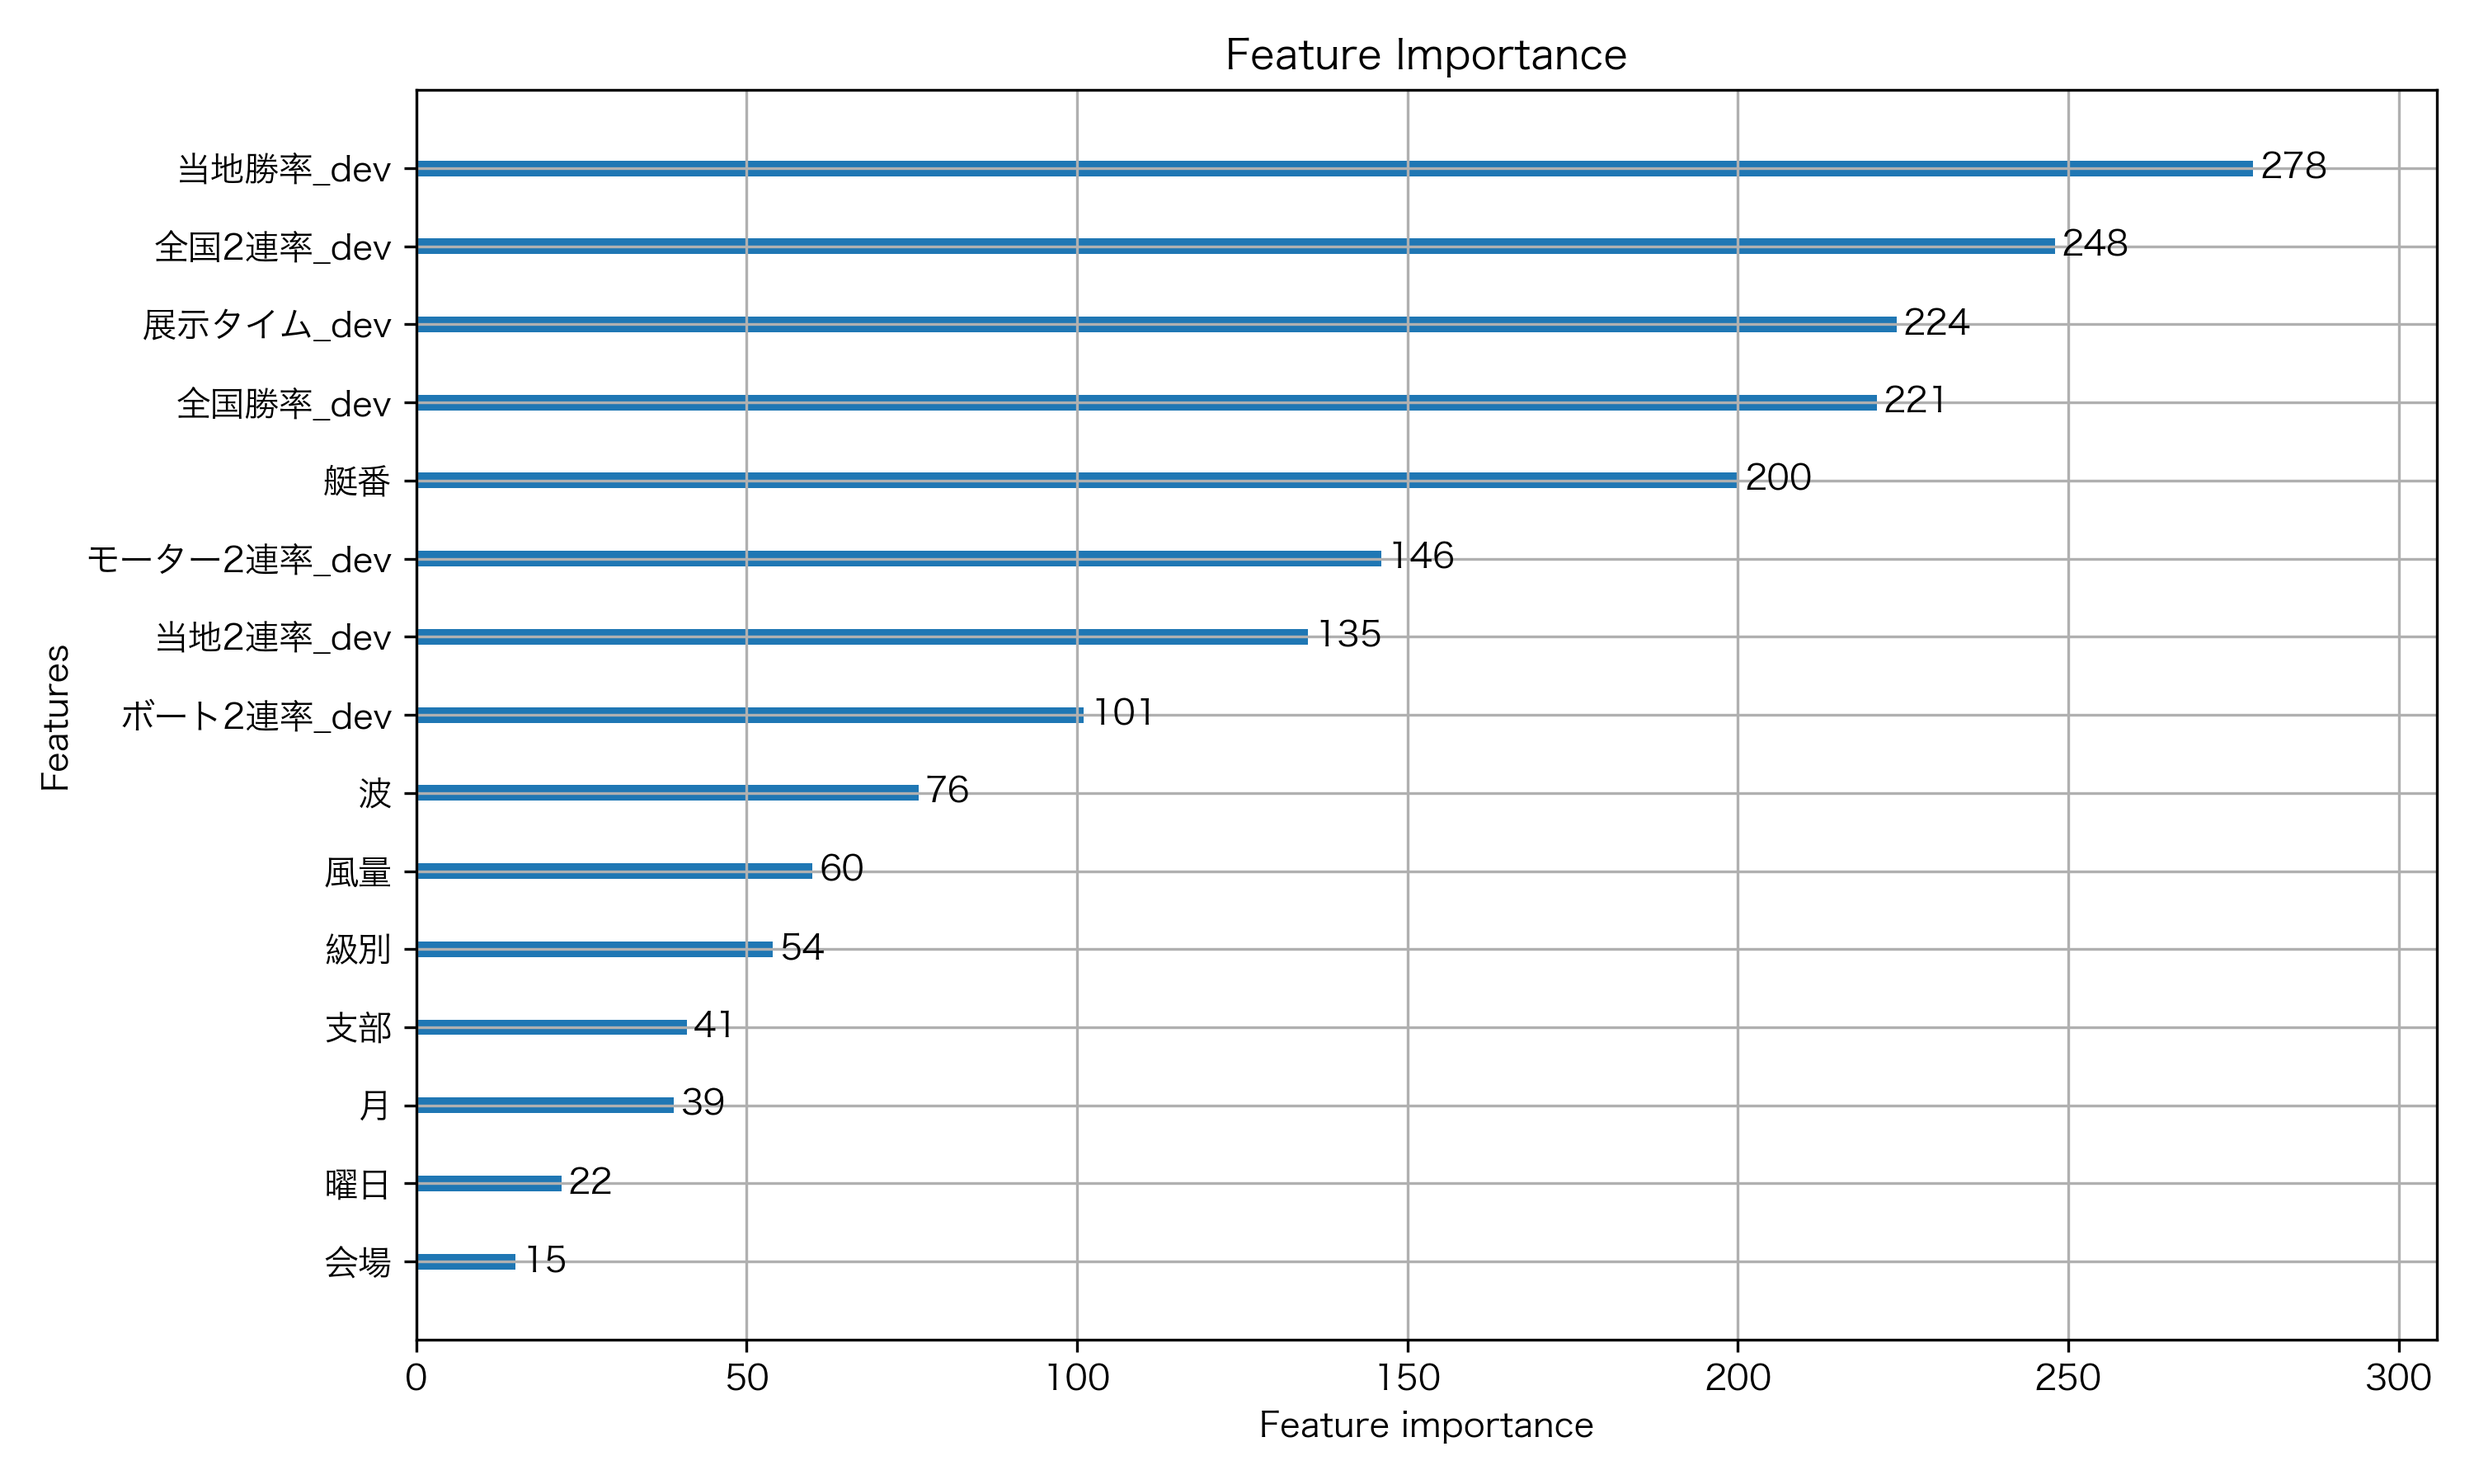
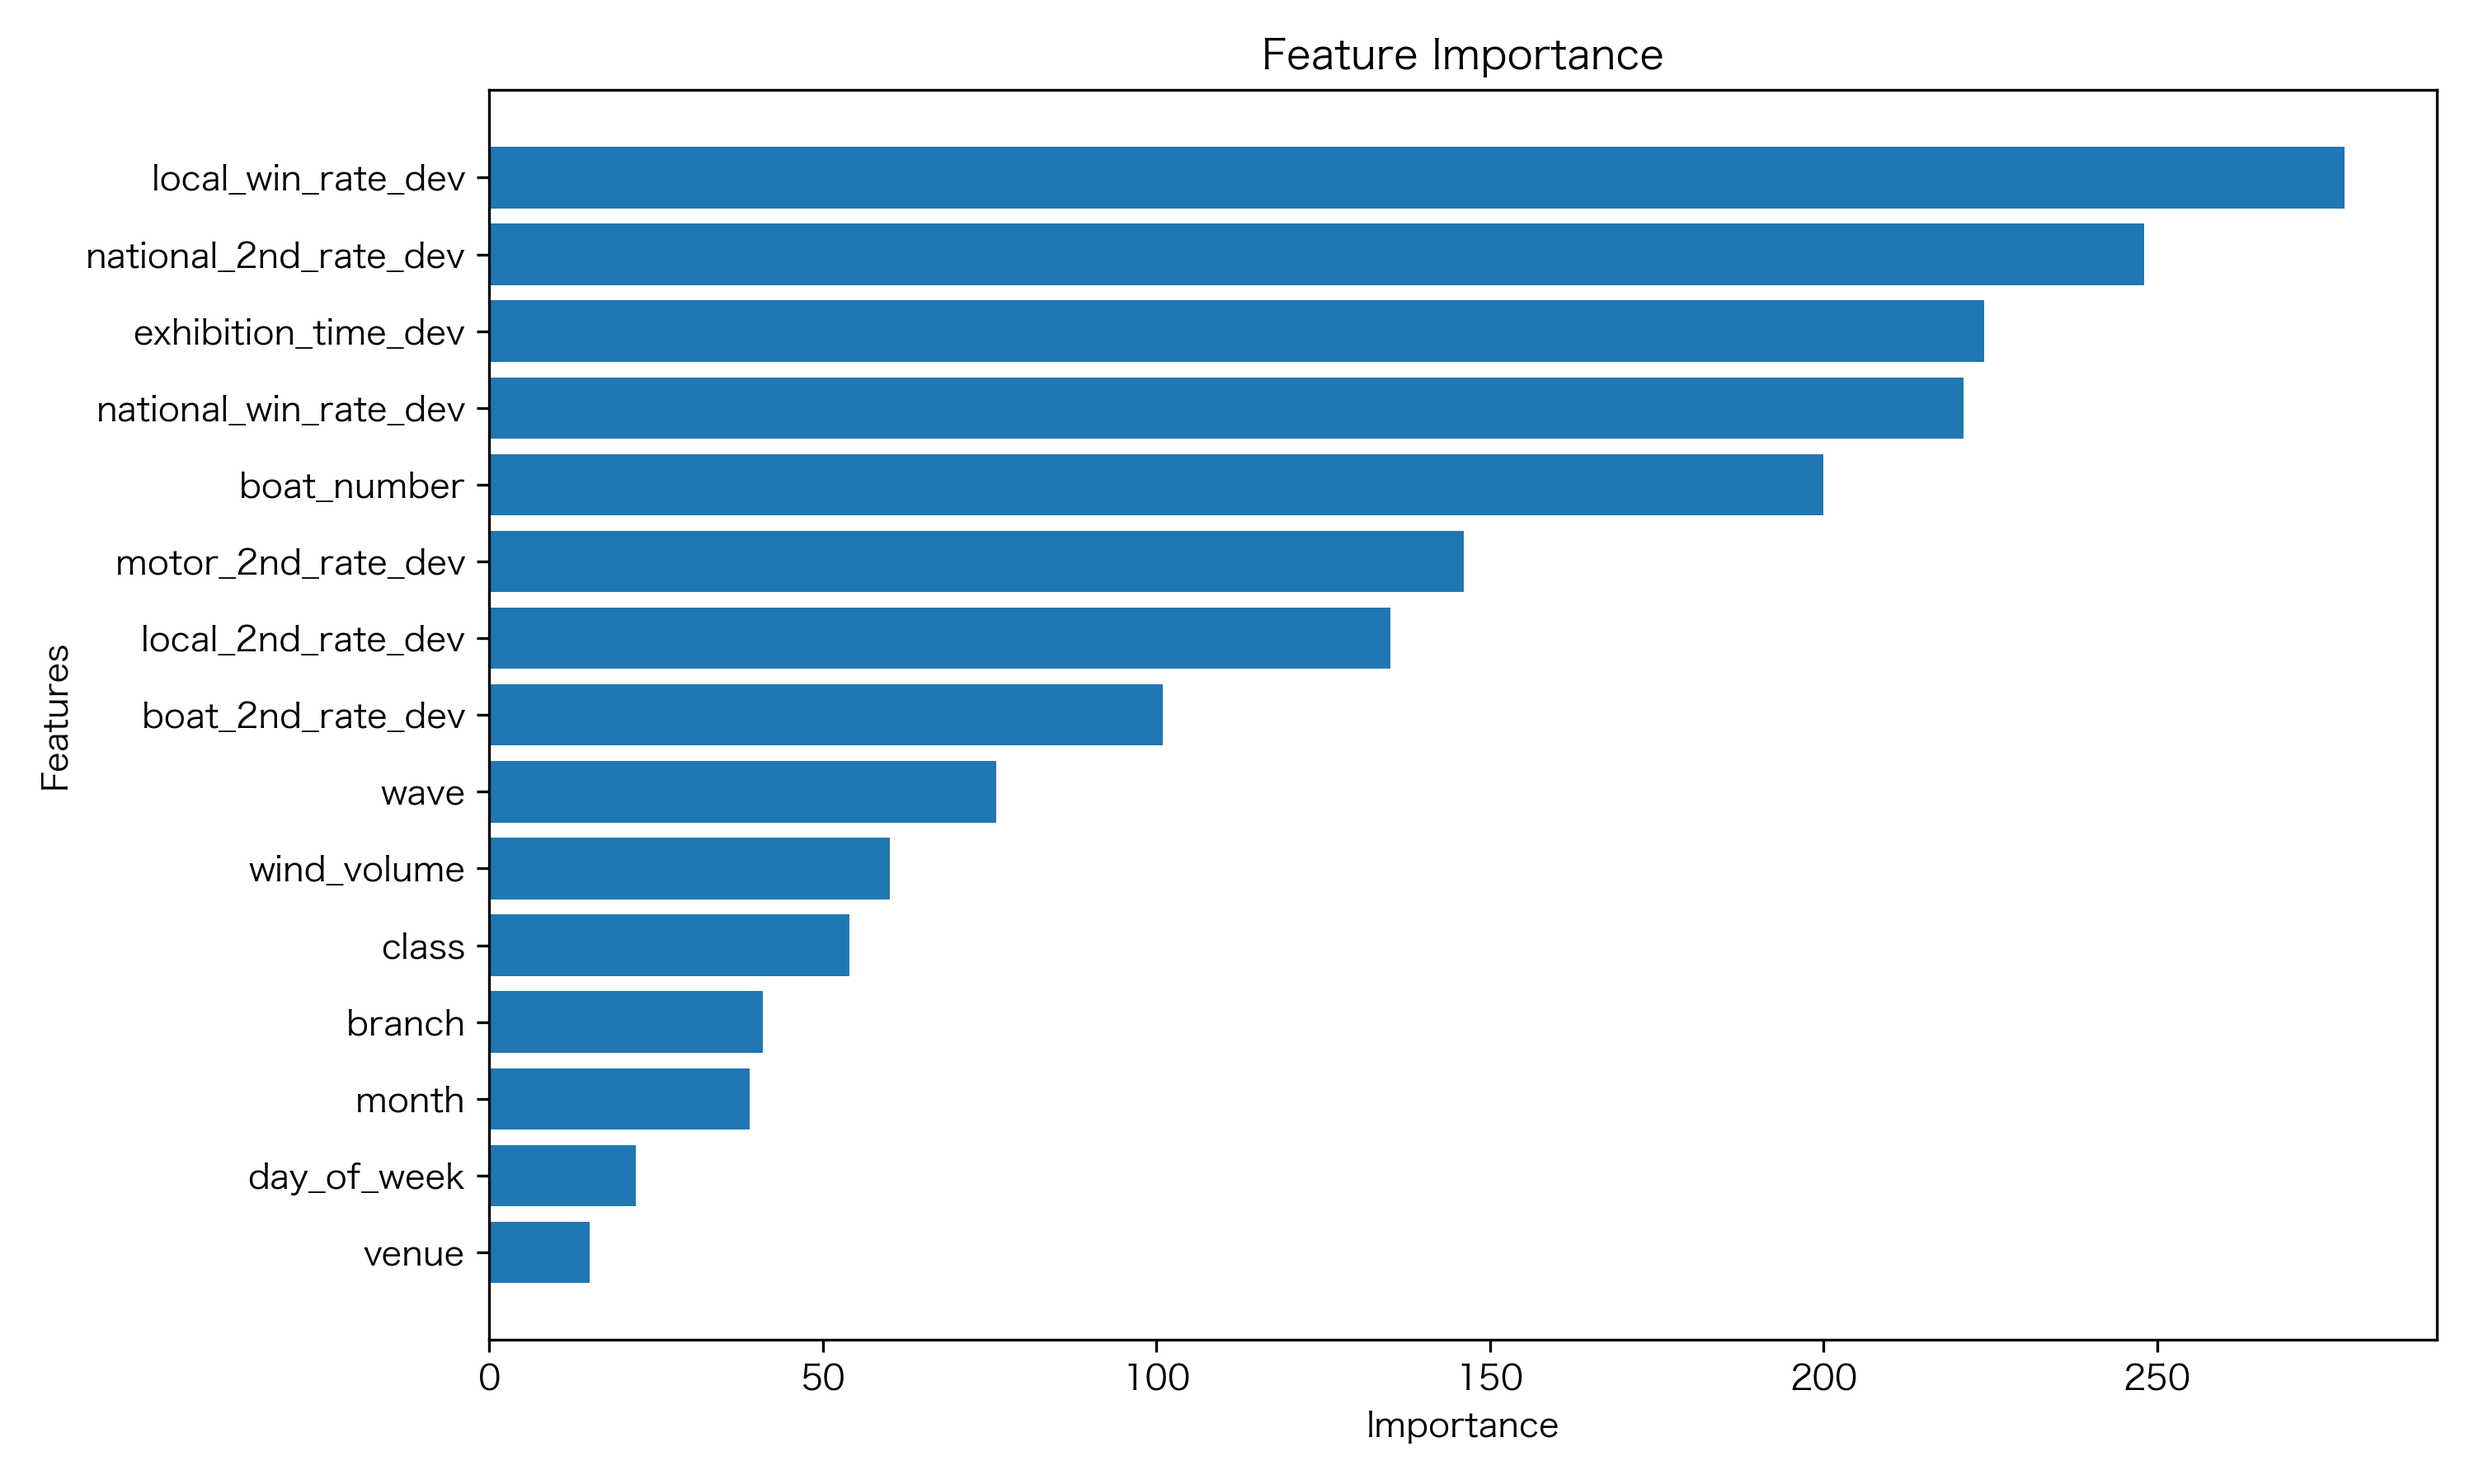
Convert column names for feature importance graph

diff --git a/scripts/7_lightGBM.py b/scripts/7_lightGBM.py
@@ -8,6 +8,11 @@ import seaborn as sns
 import os
 import sys
 
+# Add the project root directory to the Python path to import modules from there
+sys.path.insert(0, os.path.abspath(os.path.join(os.path.dirname(__file__), '..')))
+# Import translation function only for feature importance visualization
+from utils import get_japanese_to_english_columns_mapping
+
 # ===== Japanese Font (for macOS) =====
 mpl.rcParams['font.family'] = ['Hiragino Sans GB', 'AppleGothic']
 
@@ -151,10 +156,52 @@ if not os.path.exists(graphs_dir):
     os.makedirs(graphs_dir)
     print(f"Created directory for saving graphs: {graphs_dir}")
 
-# Create feature importance graph
+# Get column name mapping dictionary
+column_mapping = get_japanese_to_english_columns_mapping()
+
+# Create custom feature importance graph with English column names
 plt.figure(figsize=(10, 6))
-lgb.plot_importance(model, max_num_features=15, figsize=(10, 6))
-plt.title("Feature Importance")
+
+# Get feature importance from the model
+importance = model.feature_importance(importance_type='split')
+feature_names = model.feature_name()
+
+# Create a dataframe for easier manipulation
+importance_df = pd.DataFrame({
+    'Feature': feature_names,
+    'Importance': importance
+}).sort_values('Importance', ascending=False)
+
+# Limit to top 15 features
+importance_df = importance_df.head(15)
+
+# Translate feature names to English (if mapping exists)
+translated_names = []
+for feature in importance_df['Feature']:
+    if feature in column_mapping:
+        translated_names.append(column_mapping[feature])
+    else:
+        # Try to match partial names (for columns like x_dev)
+        found = False
+        for jp_name, en_name in column_mapping.items():
+            if feature.startswith(jp_name):
+                # Replace Japanese part with English part
+                translated_name = feature.replace(jp_name, en_name)
+                translated_names.append(translated_name)
+                found = True
+                break
+        if not found:
+            translated_names.append(feature)  # Keep original if no mapping found
+
+importance_df['Translated_Feature'] = translated_names
+
+# Plot with translated feature names
+plt.barh(range(len(importance_df)), importance_df['Importance'], align='center')
+plt.yticks(range(len(importance_df)), importance_df['Translated_Feature'])
+plt.title('Feature Importance')
+plt.xlabel('Importance')
+plt.ylabel('Features')
+plt.gca().invert_yaxis()  # Highest importance at the top
 
 # Get the latest date in the data and use it in the file name
 latest_date = df["日付"].max().strftime('%Y%m%d')  # Date
@@ -163,7 +210,7 @@ feature_importance_path = os.path.join(graphs_dir, f"feature_importance_{latest_
 # Save graph
 plt.tight_layout()
 plt.savefig(feature_importance_path, dpi=300)
-print(f"Saved feature importance graph: {feature_importance_path}")
+print(f"Saved feature importance graph (with English labels): {feature_importance_path}")
 # plt.show()
 
 # ===== 7. Expected Value Calculation =====
